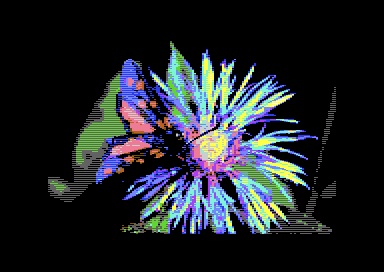
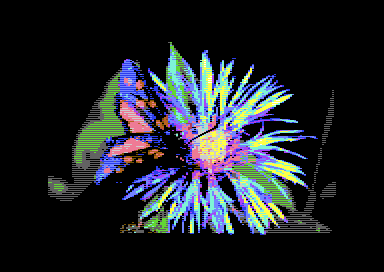
fix bug and flip frames

Changed region(s): [[0.125, 0.1471, 0.875, 0.8824]]

diff --git a/convert.go b/convert.go
@@ -78,19 +78,6 @@ func (img *sourceImage) multiColorIndexes(cc []ColorInfo, forcePreferred bool) (
 		return rgb2bitpair, bitpair2c64color, nil
 	}
 
-	if false { // img.opt.Interlace {
-		// todo: fix proper sorting of colors above
-		// prefill d800 bitpair
-
-		if len(img.preferredBitpairColors) == 4 {
-			color := img.preferredBitpairColors[3]
-			var bitpair byte
-			bitpair, bitpairs = bitpairs[len(bitpairs)-1], bitpairs[0:len(bitpairs)-1]
-			rgb2bitpair[img.palette.RGB(color)] = bitpair
-			bitpair2c64color[bitpair] = color
-		}
-	}
-
 	// prefill preferred and used colors
 	if len(img.preferredBitpairColors) > 0 {
 		for preferBitpair, preferColor := range img.preferredBitpairColors {

diff --git a/interlace.go b/interlace.go
@@ -276,7 +276,10 @@ func (img1 *sourceImage) InterlaceKoala(img0 sourceImage) (k0, k1 Koala, sharedc
 				}
 			}
 			if !foundsharedcolinchar {
-				return k0, k1, sharedcolors, fmt.Errorf("multiColorIndexes failed: no shared color found in char %d", char)
+				if len(img0.charColors[char]) == 4 && len(img1.charColors[char]) == 4 {
+					//fmt.Printf("img0.charColors[%d]: %v img1.charColors[%d]: %v\n", char, img0.charColors[char], char, img1.charColors[char])
+					return k0, k1, sharedcolors, fmt.Errorf("multiColorIndexes failed: no shared color found in char %d", char)
+				}
 			}
 
 			img0.preferredBitpairColors = forcepreferred
